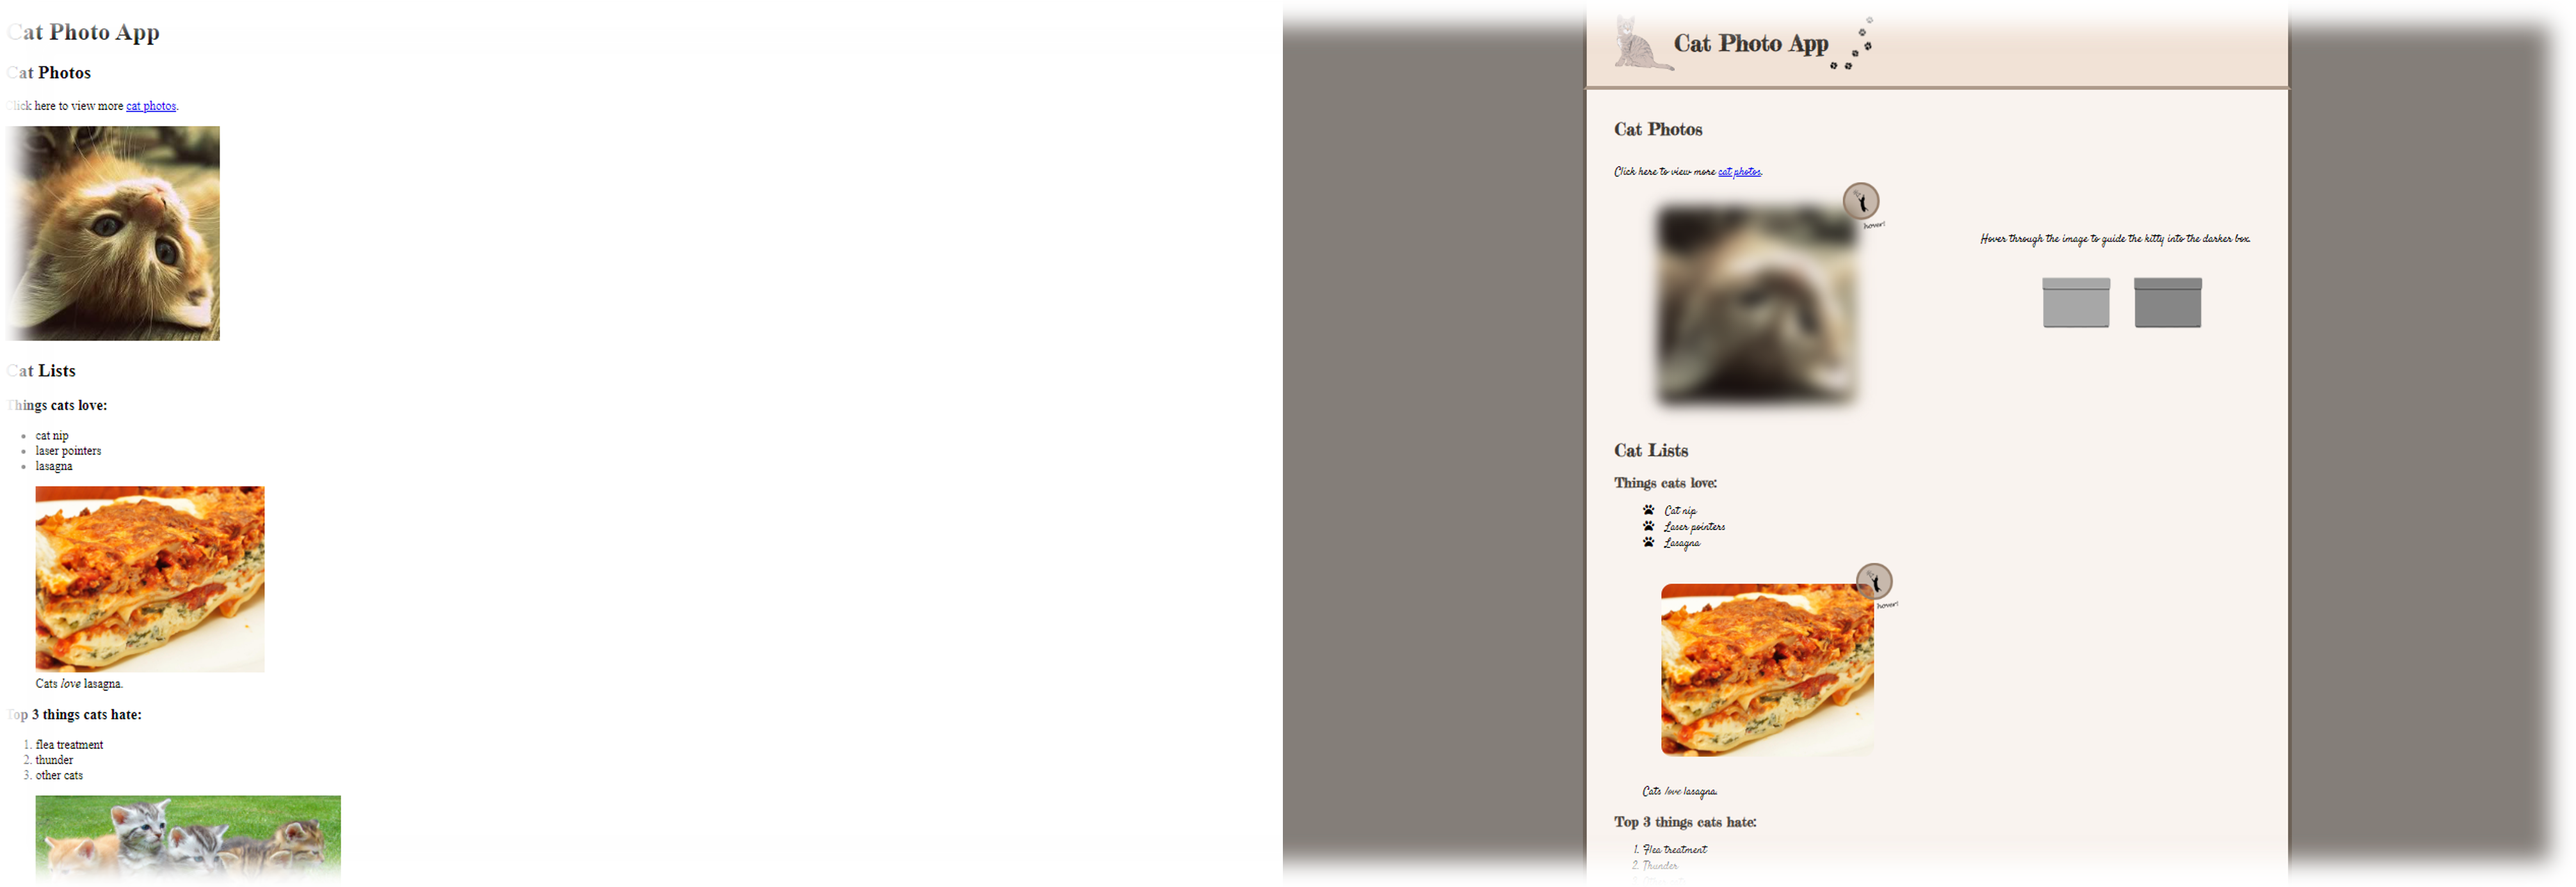
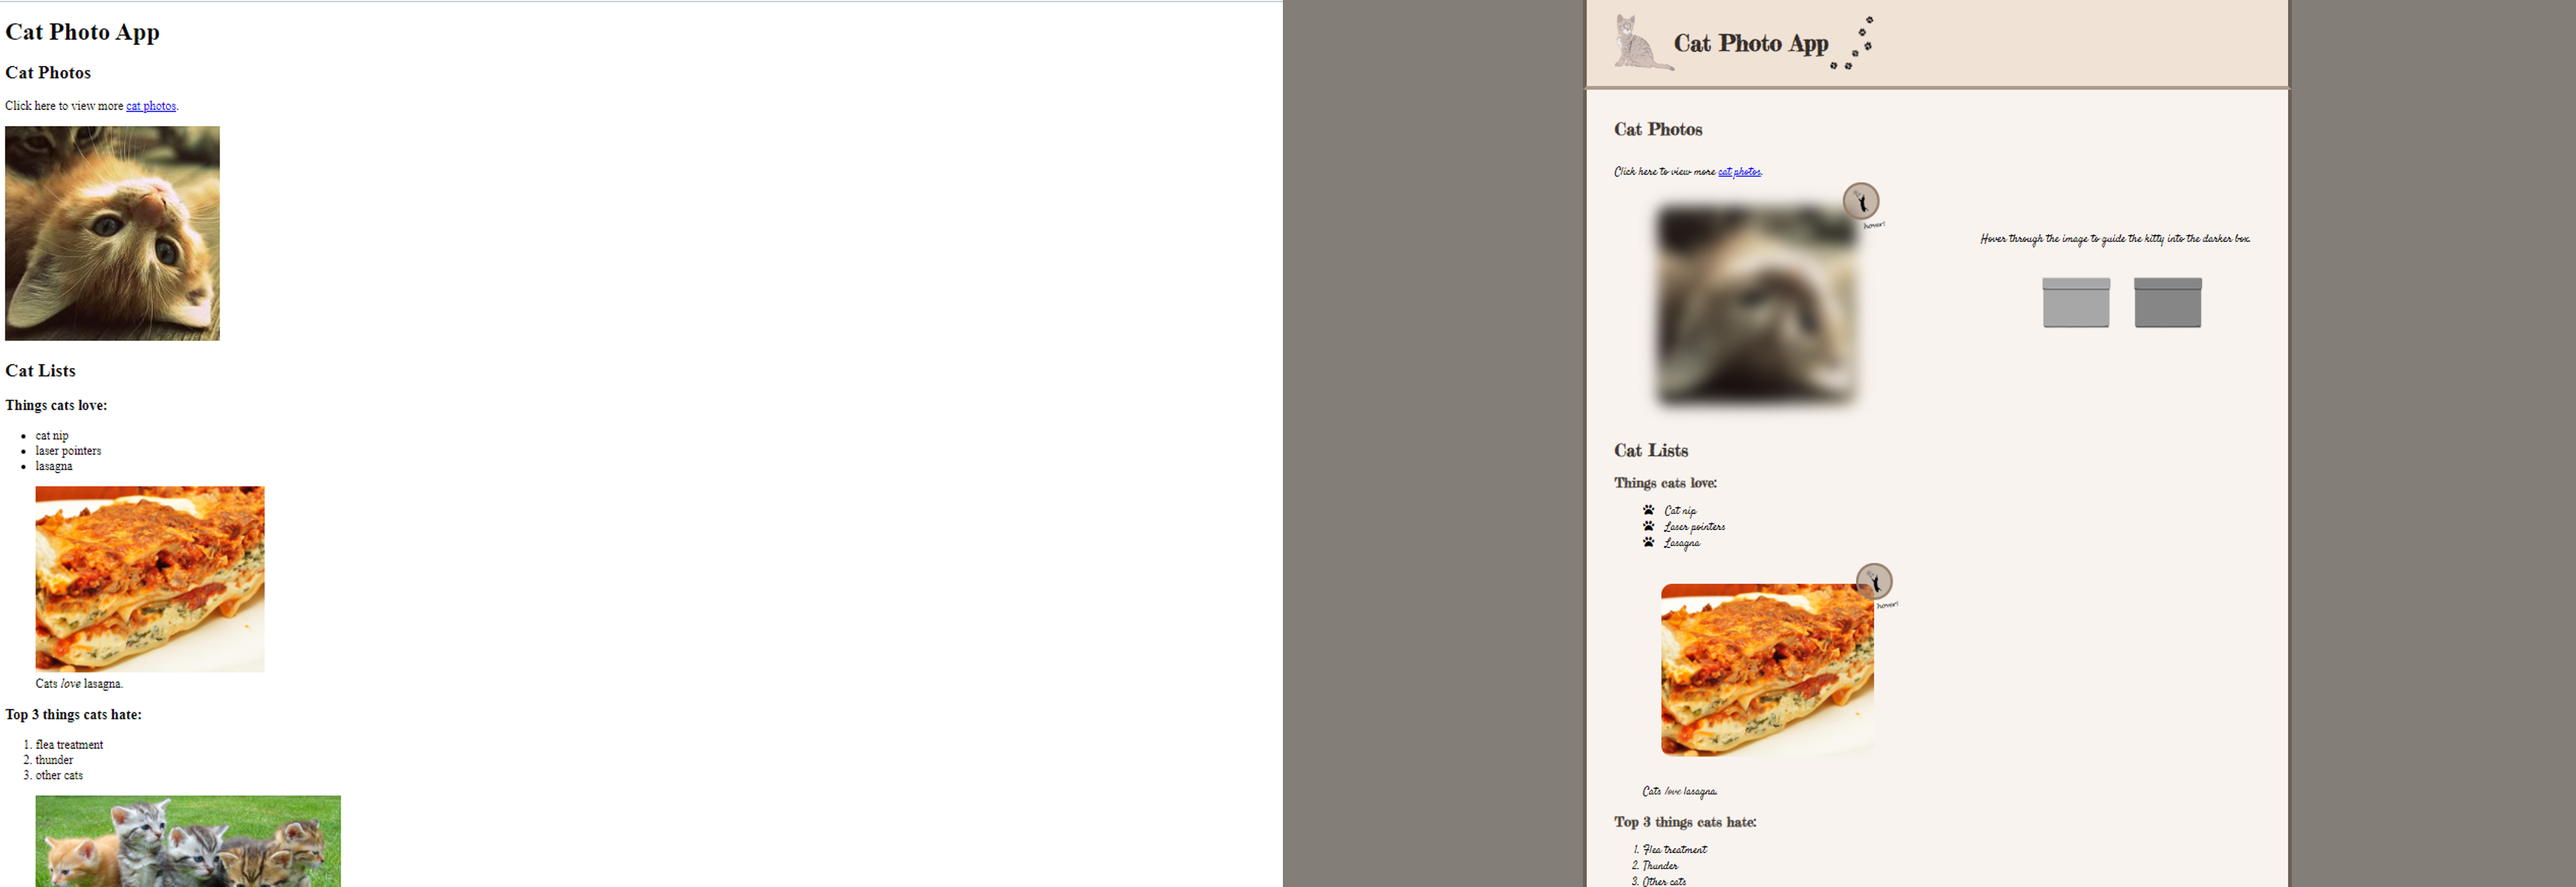
JSON update.

diff --git a/src/styles.css b/src/styles.css
@@ -1912,6 +1912,9 @@ i:hover {
   background-size: contain;
   background-position: center;
   background-repeat: no-repeat;
+  border: 0.35vw ridge rgb(209, 209, 200);
+  border-radius: 0.2vw;
+  box-shadow: 0 0.5vw 0.6vw #888888;
 }
 
 .thumbnail:hover {
